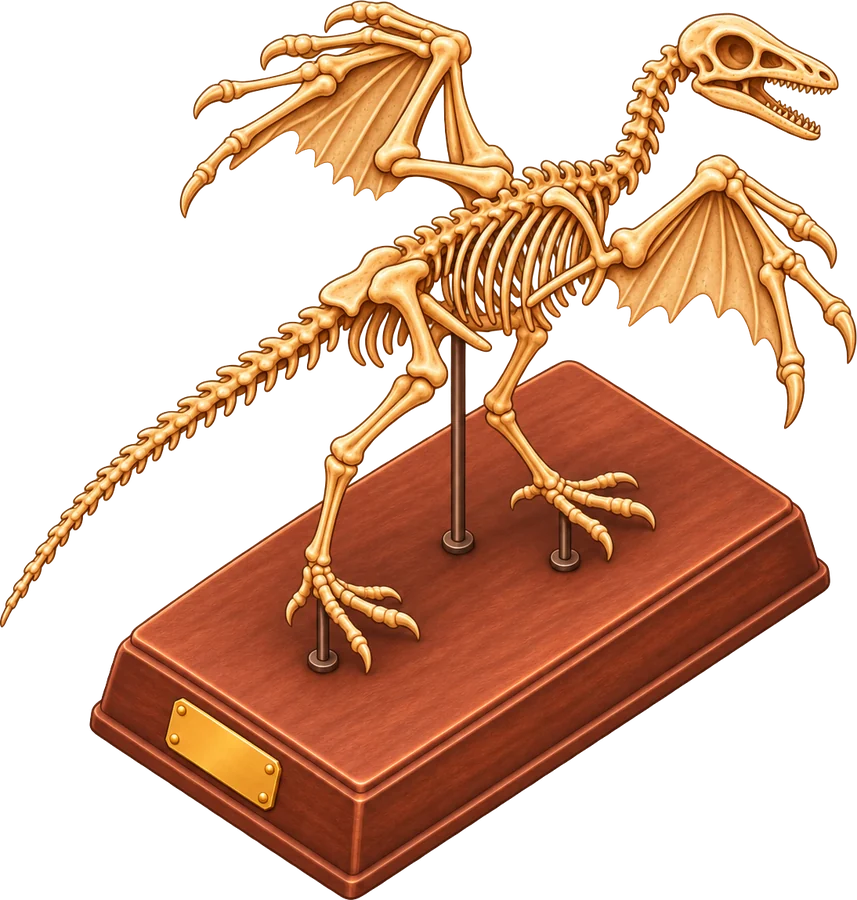
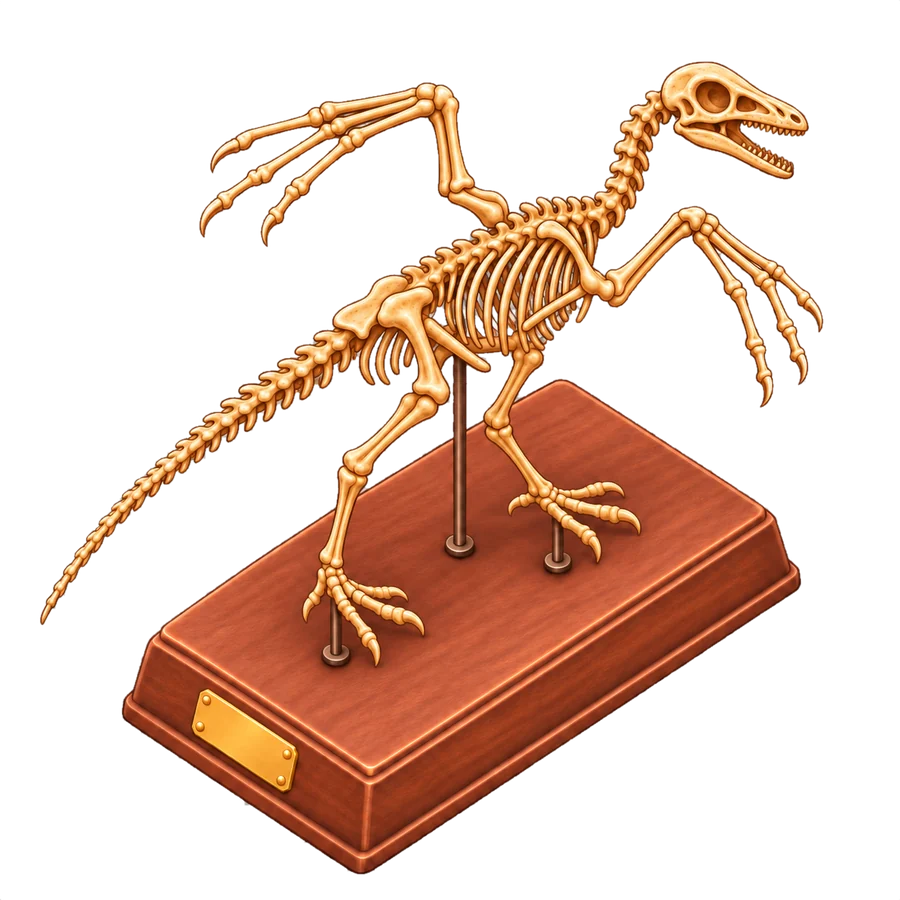
Museumshalle: Archaeopteryx mit richtigen Flügelknochen
Claude-Session: https://claude.ai/code/session_01UZ49mRRMnRHWRQ5bRbCUMB

diff --git a/src/game.html b/src/game.html
@@ -1563,7 +1563,7 @@ function renderShop(){
    Isometrische Halle: fertige Skelette frei aufstellen, verschieben und drehen (gespiegelt).
    Bilder ex_<id>.webp, Sockel-Messpunkte in HALLMETA (neu erzeugen mit tools/hall/meta.py).
    Spielstand: S.hall={n:Kantenlänge in Feldern, it:{id:[i,j,gedreht]}} */
-const HALLMETA={"allo":[900,872,343,870,95,701,820,561],"arch":[857,900,350,899,90,723,829,580],"brac":[900,900,340,899,136,784,732,686],"coel":[900,874,319,871,87,714,827,558],"dime":[882,900,307,899,19,714,881,542],"dipl":[900,653,231,650,89,556,861,262],"edap":[900,900,326,895,50,708,890,540],"eora":[900,900,382,741,250,664,641,616],"herr":[900,823,320,820,79,655,838,501],"icht":[900,728,224,726,47,608,845,396],"inos":[900,878,299,876,1,679,879,512],"meso":[900,832,278,830,27,663,881,464],"noth":[896,900,273,898,60,753,817,564],"plat":[899,900,288,898,33,725,857,559],"rham":[900,790,289,789,99,662,795,493],"scut":[900,819,309,816,1,617,884,459],"steg":[899,900,339,898,68,716,852,558],"trex":[900,900,360,877,109,716,830,566]};   // [w,h, Sockel vorne x,y, links x,y, rechts x,y]  (tools/hall/meta.py)
+const HALLMETA={"allo":[900,872,343,870,95,701,820,561],"arch":[900,900,360,872,122,711,800,581],"brac":[900,900,340,899,136,784,732,686],"coel":[900,874,319,871,87,714,827,558],"dime":[882,900,307,899,19,714,881,542],"dipl":[900,653,231,650,89,556,861,262],"edap":[900,900,326,895,50,708,890,540],"eora":[900,900,382,741,250,664,641,616],"herr":[900,823,320,820,79,655,838,501],"icht":[900,728,224,726,47,608,845,396],"inos":[900,878,299,876,1,679,879,512],"meso":[900,832,278,830,27,663,881,464],"noth":[896,900,273,898,60,753,817,564],"plat":[899,900,288,898,33,725,857,559],"rham":[900,790,289,789,99,662,795,493],"scut":[900,819,309,816,1,617,884,459],"steg":[899,900,339,898,68,716,852,558],"trex":[900,900,360,877,109,716,830,566]};   // [w,h, Sockel vorne x,y, links x,y, rechts x,y]  (tools/hall/meta.py)
 const HALL_SZ={dime:3,edap:3,scut:3,inos:3,meso:2,plat:4,herr:3,coel:3,eora:2,noth:3,arch:2,allo:4,steg:4,brac:5,dipl:5,icht:3,rham:2,
   tric:4,velo:2,anky:4,spin:5,trex:5,pter:3,mosa:5,pars:4,igua:4,gast:3,basi:5,darw:2,prop:2,andr:4,prac:5,mamm:4,smil:3,nash:3,baer:3,megl:3,glyp:3};   // Sockellänge in Feldern
 const HT=64,HTH=HT*.645,HWALL=150;   // Feldbreite und -höhe, Wandhöhe (in Weltpunkten)
